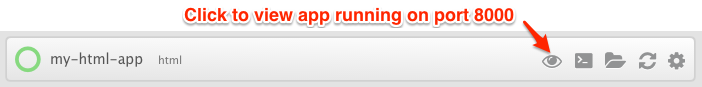
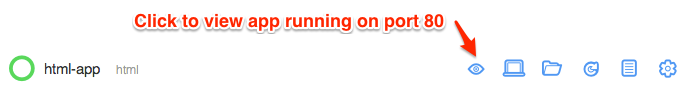
Updated docs.

diff --git a/app/docs/build-your-own-image.md b/app/docs/build-your-own-image.md
@@ -18,26 +18,27 @@ Here's an example Dockerfile for creating a basic HTML app powered by Nginx:
 
 {% highlight bash %}
 # Pull from a base image
-FROM ubuntu:14.04
+FROM dockerfile/ubuntu
 
 # Install minimal set of system packages required to run your app
-RUN \
-  apt-get update && \
-  apt-get install -y -q software-properties-common python-software-properties && \
-  apt-get install -y -q curl git make wget nginx sudo
+# We install nginx for this app
+RUN apt-get update
+RUN apt-get install -y nginx
 
-# Add script to start Nginx
-ADD ./start.sh /start.sh
-RUN chmod 755 /start.sh
+# Update nginx configurations
+RUN echo "\ndaemon off;" >> /etc/nginx/nginx.conf
 
-# Mount volumes for HTML code and Nginx configuration
-VOLUME ["/code", "/etc/nginx/sites-available"]
+# Add nginx configuration for the app
+ADD /config/default /etc/nginx/sites-available/
+
+# Mount volumes for HTML code
+VOLUME ["/code"]
 
 # Expose port the app is running on
-EXPOSE 8000
+EXPOSE 80
 
-# Run start command by default
-CMD ["/bin/bash", "/start.sh"]
+# Run nginx command
+CMD ["nginx"]
 {% endhighlight %}
 
 Note that Kitematic did not use the Dockerfile `ADD` instruction to put HTML code and
@@ -54,12 +55,10 @@ html/
 ├── Dockerfile          # Dockerfile for building the image
 ├── image.json          # Meta data for the image
 ├── logo.png            # Logo of the image
-├── start.sh            # Script on how to start the app
+├── config/
+|   └── default         # Nginx configuration
 └── volumes/            # What to put in the volumes
-    ├── code/
-    └── etc/
-        └── nginx/
-            └── sites-available／
+    └── code/           # Code for your HTML app
 ```
 
 **Anything in the volumes folder will automatically added to the Docker volumes
@@ -67,3 +66,6 @@ when an app is created from this image. **
 
 For an example of how to build your own image, check out
 this example on [Github](https://github.com/kitematic/html).
+
+To learn more about image.json file, check out
+the tutorial [here](/docs/image-json-file).

diff --git a/app/docs/image-json-file.md b/app/docs/image-json-file.md
@@ -19,13 +19,13 @@ description and logo.
 {
   "name": "html",
   "version": "0.1.0",
-  "description": "A HTML app powered by Nginx.",
-  "author": "Kitematic",
+  "description": "A basic HTML app powered by nginx.",
+  "author": "Kitematic Inc.",
   // Path to the logo in the current directory
   "logo": "logo.png",
   "app": {
     // When app has multiple exposed ports, specify which one people should see
-    "webPort": 8000
+    "webPort": 80
   }
 }
 {% endhighlight %}
